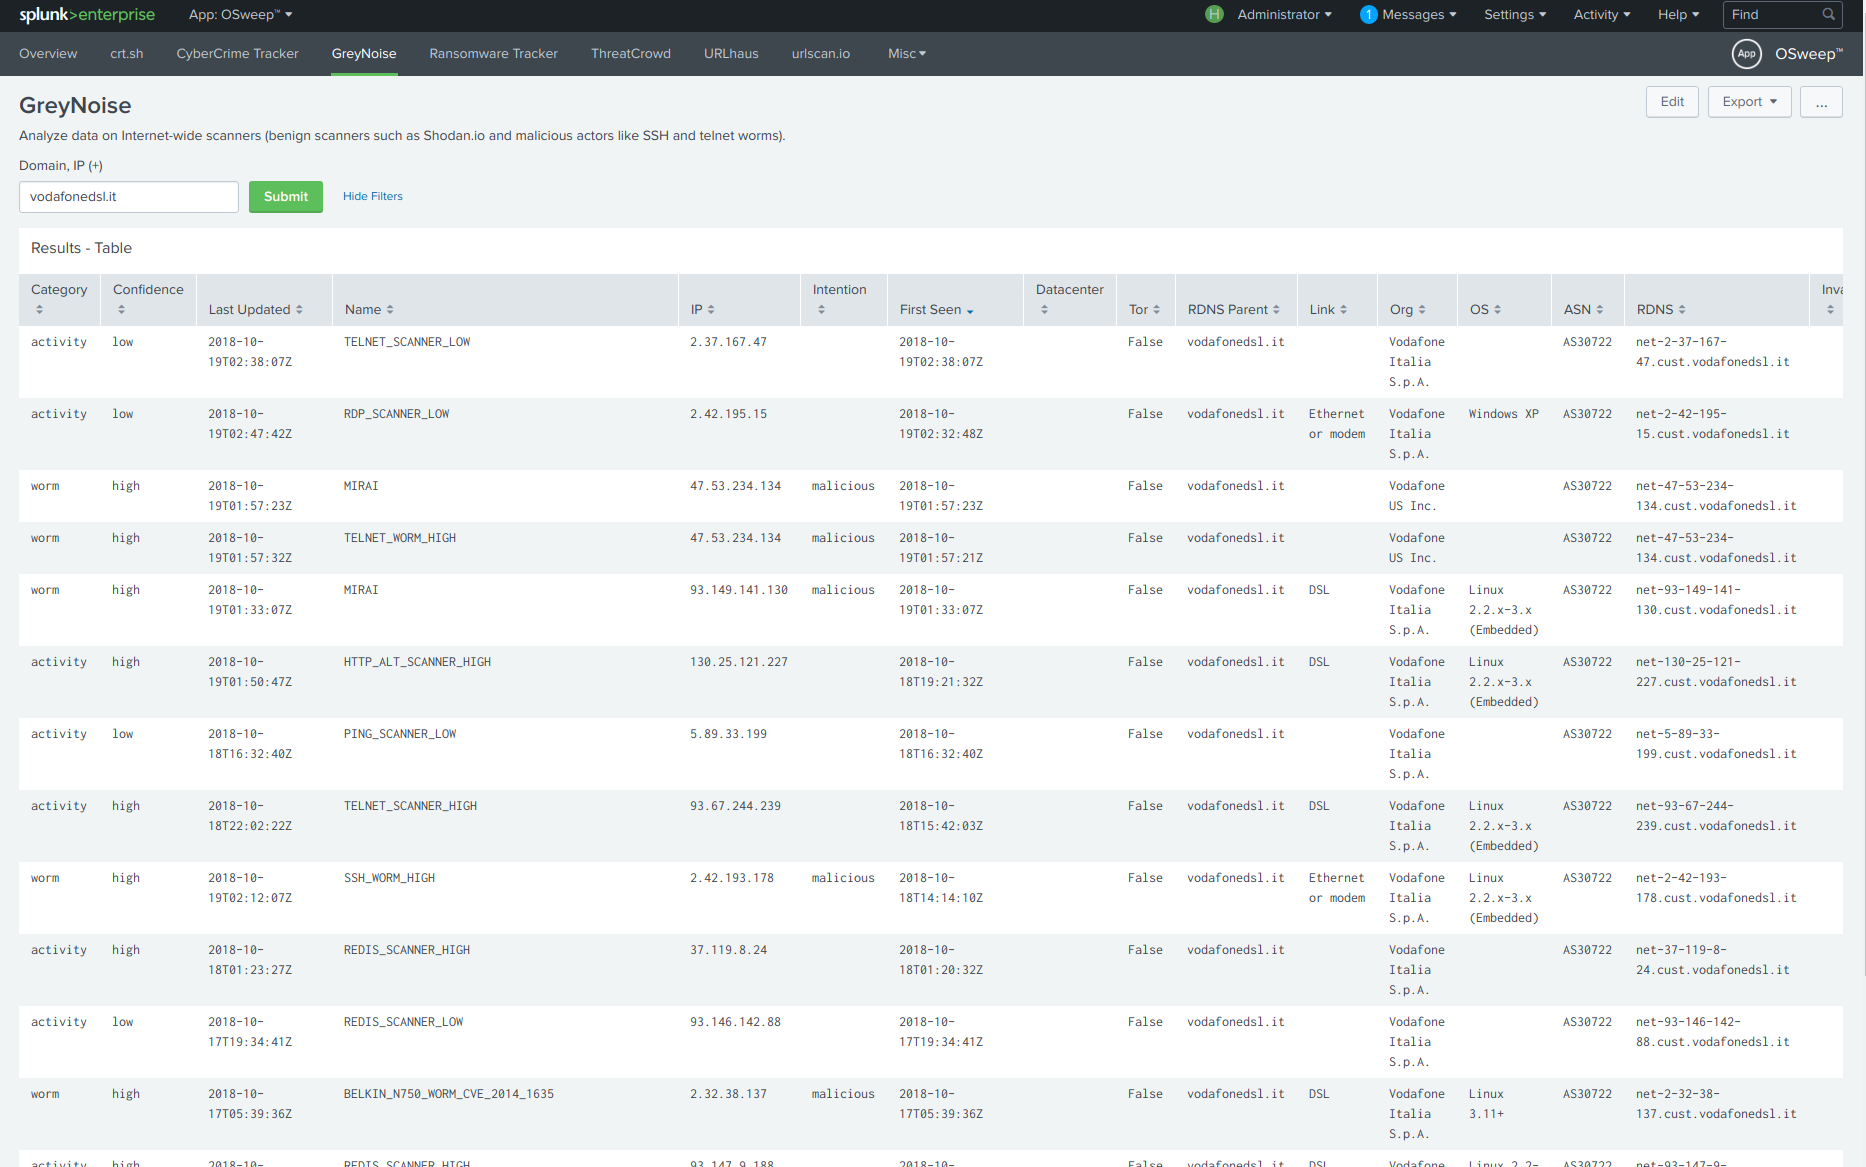
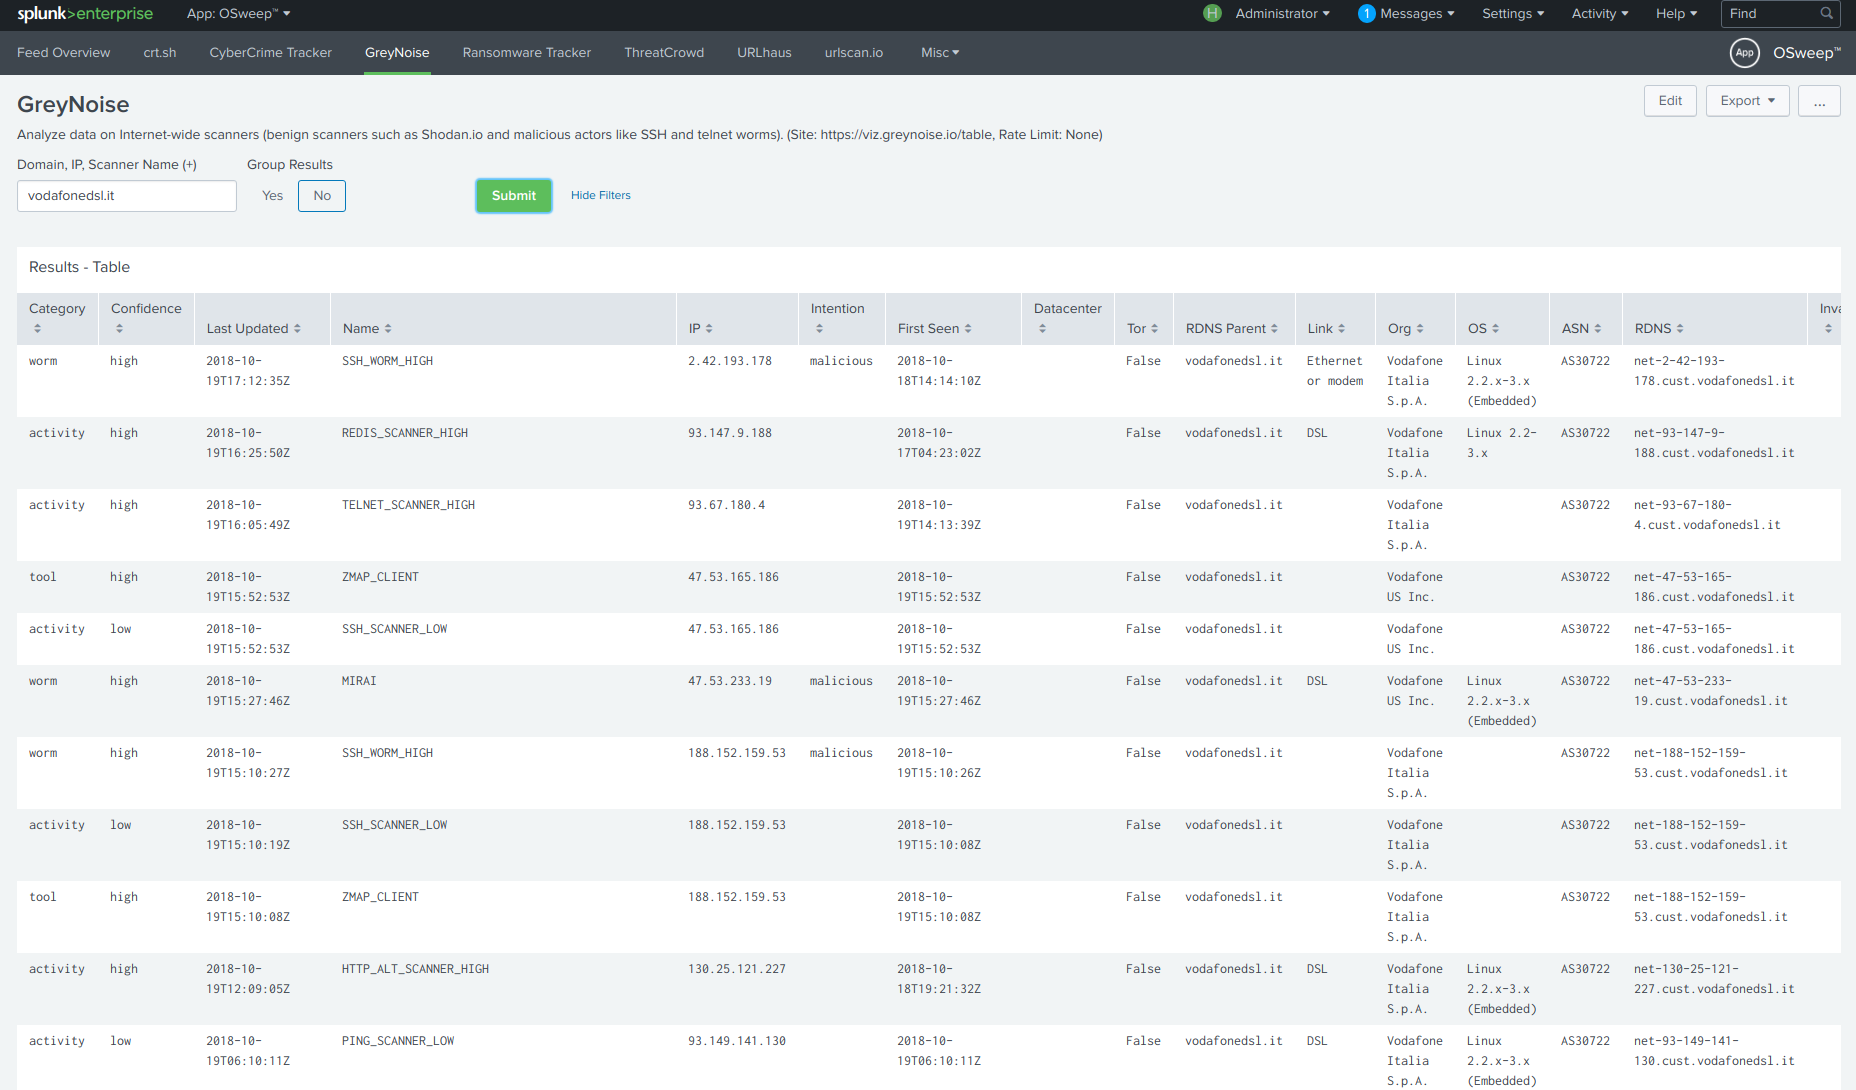
Update

diff --git a/README.md b/README.md
@@ -83,7 +83,7 @@ or to search for subdomains,
 | greyNoise feed
 ```
 3. Switch to the **GreyNoise** dashboard in the OSweep™ app.  
-4. Add the list of IOCs to the 'Domain, IP (+)' textbox.  
+4. Add the list of IOCs to the 'Domain, IP, Scanner Name (+)' textbox.  
 5. Select whether the results will be grouped and how from the dropdowns.  
 6. Click 'Submit'.  
 
